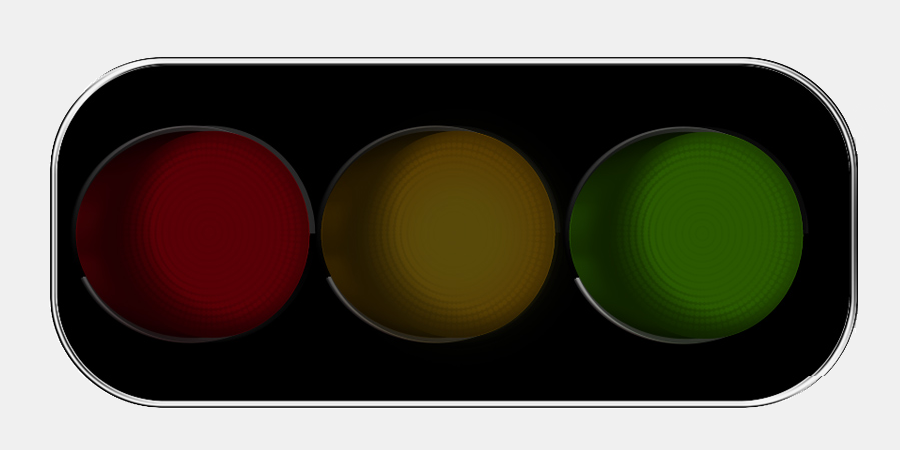
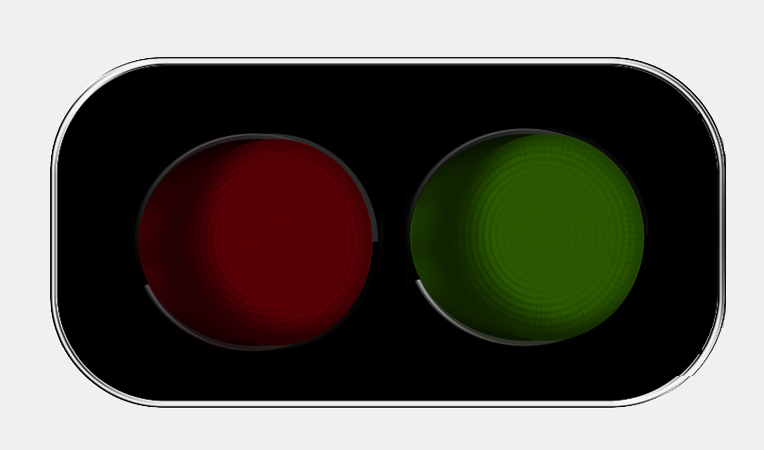
frame edit

diff --git a/gui_main.py b/gui_main.py
@@ -21,10 +21,7 @@ from oob_parser import uartParserSDK
 from gui_threads import *
 from graphUtilities import *
 from gl_classes import GLTextItem
-compileGui = 0
-#only when compiling
-if (compileGui):
-    from fbs_runtime.application_context.PyQt5 import ApplicationContext
+
 
 class Window(QDialog):
     def __init__(self, parent=None, size=[]):
@@ -106,25 +103,18 @@ class Window(QDialog):
         #setup graph pyqtgraph
         self.plot3DQTGraph()
         self.colorGradient()
-        #self.heightPlots()
-        #self.fallDetData()
-        #self.plot2DQTGraph()
 
         #add connect options
         self.setConnectionLayout()
         self.setStatsLayout()
         self.setPlotControlLayout()
         self.setConfigLayout()
-        #self.setControlLayout()
         self.setUpBoundaryBoxControls()
         self.setSensorPositionControls()
         self.setTrafficLightLayout()
 
-        # set the layout
-        #create tab for different graphing options
         self.graphTabs = QTabWidget()
         self.graphTabs.addTab(self.pcplot, '3D Plot')
-        #self.graphTabs.addTab(self.legacyPlot, '2D Plot')
         self.graphTabs.currentChanged.connect(self.whoVisible)
 
         gridlay = QGridLayout()
@@ -133,20 +123,12 @@ class Window(QDialog):
         gridlay.addWidget(self.configBox,2,0,1,1)
         gridlay.addWidget(self.plotControlBox,3,0,1,1)
         gridlay.addWidget(self.boxTab,4,0,1,1)
-        #gridlay.addWidget(self.spBox,5,0,1,1)
         gridlay.addWidget(self.trafficBox,5, 0, 1, 1)
         gridlay.addWidget(self.graphTabs,0,1,6,1)
-        #gridlay.addWidget(self.gw, 0, 2, 6, 1)
-        #gridlay.addWidget(self.demoData, 0,3,1,2)
-        #gridlay.addWidget(self.hPlot,1,3,4,2)
         gridlay.setColumnStretch(0,1)
         gridlay.setColumnStretch(1,3)
         self.setLayout(gridlay)
-
         self.selectCfg()
-#
-# left side pane layout
-#
 
     def setTrafficLightLayout(self):
         self.trafficBox = QGroupBox('')
@@ -154,10 +136,9 @@ class Window(QDialog):
 
         self.pixmapRed=QPixmap("light_red").scaled((int)(self.width/4),(int)(self.height/5))
         self.pixmapGreen=QPixmap("light_green").scaled((int)(self.width/4),(int)(self.height/5))
-        self.pixmapYellow=QPixmap("light_yellow").scaled((int)(self.width/4),(int)(self.height/5))
         self.pixmapCommon=QPixmap("light").scaled((int)(self.width/4),(int)(self.height/5))
-        self.pixmapGroup=[self.pixmapRed,self.pixmapYellow,self.pixmapGreen,self.pixmapCommon]
-        self.lbl.setPixmap(self.pixmapGroup[3])
+        self.pixmapGroup=[self.pixmapRed,self.pixmapGreen,self.pixmapCommon]
+        self.lbl.setPixmap(self.pixmapGroup[2])
 
         self.trafficControlLayout = QGridLayout()
         self.trafficControlLayout.addWidget(self.lbl,0,0)
@@ -175,7 +156,6 @@ class Window(QDialog):
         self.configLabel = QLabel('Config Type:')
         self.configType = QComboBox()
         self.configType.addItems(["(Legacy) 2D People Counting"])
-        #self.configType.addItems(["3D People Counting", "SDK Out of Box Demo", "Long Range People Detection", "Sense and Detect HVAC Control", "(Legacy) 2D People Counting", "(Legacy): Overhead People Counting", "Capon3DAOP", "Replay"])
         self.comLayout = QGridLayout()
         self.comLayout.addWidget(self.uartLabel,0,0)
         self.comLayout.addWidget(self.uartCom,0,1)
@@ -218,9 +198,6 @@ class Window(QDialog):
         self.orientationSelection.addItems(['Side Mount', 'Overhead Mount'])
         self.orientationSelection.currentIndexChanged.connect(self.swapOrientations)
         self.oriLabel = QLabel('Orientation')
-        #self.fallThreshInput = QLineEdit(str(self.fallThresh))
-        #self.fallThreshInput.textEdited.connect(self.updateFallThresh)
-        #self.fallTLabel = QLabel('Fall Detection Threshold')
         self.plotControlLayout = QGridLayout()
         self.plotControlLayout.addWidget(self.plotByIndex, 0, 0,1,1)
         self.plotControlLayout.addWidget(self.plotByHeight, 1, 0,1,1)
@@ -228,12 +205,7 @@ class Window(QDialog):
         self.plotControlLayout.addWidget(self.persistentFramesInput,4,0,1,1)
         self.plotControlLayout.addWidget(self.pFILabel,4,1,1,1)
         self.plotControlLayout.addWidget(self.staticclutter,3,0,1,1)
-        #self.plotControlLayout.addWidget(self.orientationSelection, 5,0,1,1)
-        #self.plotControlLayout.addWidget(self.oriLabel, 5,1,1,1)
-        #self.plotControlLayout.addWidget(self.fallThreshInput,4,0,1,1)
-        #self.plotControlLayout.addWidget(self.fallTLabel,4,1,1,1)
         self.plotControlBox.setLayout(self.plotControlLayout)
-        #initialize button values
         self.plotByHeight.setChecked(True)
         self.plotByIndex.setChecked(False)
         self.plotTracks.setChecked(True)
@@ -241,9 +213,7 @@ class Window(QDialog):
 
     def setConfigLayout(self):
         self.configBox = QGroupBox('Configuration')
-        #self.selectConfig = QPushButton('Select Configuration')
         self.sendConfig = QPushButton('Send Configuration')
-        #self.selectConfig.clicked.connect(self.selectCfg)
         self.sendConfig.clicked.connect(self.sendCfg)       
         self.configTable = QTableWidget(5,2)
         #set parameter names
@@ -254,10 +224,8 @@ class Window(QDialog):
         self.configTable.setItem(3,0,QTableWidgetItem('Max Velocity'))
         self.configTable.setItem(4,0,QTableWidgetItem('Velcoity Resolution'))
         self.configLayout = QVBoxLayout()
-        #self.configLayout.addWidget(self.selectConfig)
         self.configLayout.addWidget(self.sendConfig)
         self.configLayout.addWidget(self.configTable)       
-        #self.configLayout.addStretch(1)
         self.configBox.setLayout(self.configLayout)
 
     def setControlLayout(self):
@@ -365,7 +333,6 @@ class Window(QDialog):
         self.gz.translate(dx=0,dy=0,dz=-self.profile['sensorHeight'])
 
     def setUpBoundaryBoxControls(self):
-        #set up all boundary box controls
         self.boundaryBoxes = []
         self.boxTab = QTabWidget()
         for i in range(1):
@@ -373,12 +340,9 @@ class Window(QDialog):
             self.boundaryBoxes.append(self.setBoxControlLayout(name))
             toAdd = self.boundaryBoxes[i]
             toAdd['boxNum'] = i
-            #if (i == 0):
-            #    toAdd['checkEnable'].setChecked(True)
             self.boxTab.addTab(toAdd['boxCon'], name)
-    #for live tuning when available
+
     def changeBoundaryBox(self):
-        #send box values
         numBoxes = 0
         for box in self.boundaryBoxes:
             if(box['checkEnable'].isChecked()):
@@ -405,39 +369,6 @@ class Window(QDialog):
             print(boundaryString)
             self.cThread = sendCommandThread(self.parser,boundaryString)
             self.cThread.start(priority=QThread.HighestPriority-2)
-    #for tuning before demo start
-    #def changeBoundaryBox(self):
-    #    #send box values
-    #    numBoxes = 0
-    #    for box in self.boundaryBoxes:
-    #        if(box['checkEnable'].isChecked()):
-    #            numBoxes += 1
-    #    boundaryString = "boundaryBox "
-    #    staticString = "staticBoundaryBox " 
-    #    flip = 1;
-    #    for box in self.boundaryBoxes:
-    #        if(box['checkEnable'].isChecked()):
-    #            for text in box['boundList']:
-    #                val = text.text()
-    #                val = val.replace(" ","")
-    #                try:
-    #                    num=float(val)
-    #                except:
-    #                    print('nothing here')
-    #                    return
-    #                boundaryString += text.text() + " "
-    #                num += flip*0.5
-    #                flip = flip*-1
-    #                staticString += str(num) + " "
-    #            self.drawBoundaryBox3d(box['boxNum'])
-    #        else:
-    #            print("Setting box ", box['boxNum'], " invisisble")
-    #            self.boundaryBoxViz[box['boxNum']].setVisible(False)
-    #            self.bottomSquare[box['boxNum']].setVisible(False)
-    #    boundaryString += "\n"
-    #    staticString += "\n"
-    #    self.cfg[self.boundaryLine] = boundaryString
-    #    self.cfg[self.staticLine] = staticString
 
     def setBoundaryTextVals(self, profile):
         #update box text values based on config
@@ -459,12 +390,10 @@ class Window(QDialog):
         yC = yL/2
         self.gz.resetTransform()
         if (self.orientationSelection.currentText() == 'Overhead Mount'):
-            #self.gz.setSize(x=mRange*2, y=mRange*2)
             self.gz.setSize(x=8, y=8)
             self.gz.translate(dx=xC, dy=0, dz=-2)
         else:
             self.gz.setSize(x=mRange*2, y=mRange)
-            #self.gz.translate(0,0,0)
             self.gz.translate(dx=xC, dy=yC, dz=-2)
 
     def drawBoundaryBox3d(self, index):
@@ -563,14 +492,9 @@ class Window(QDialog):
         self.pcplot.addItem(self.evmBox)
         #add text items for tracks
         self.coordStr = []
-        #coordinateString = GLTextItem()
-        #coordinateString.setGLViewWidget(self.pcplot)
-        #self.pcplot.addItem(coordinateString)
-        #coordinateString.setPosition(1,1,1)
-        #add mesh objects for ellipsoids
         self.ellipsoids = []
-        #self.dataImages = []
         edgeColor = pg.glColor('k')
+
         for m in range(0,20):
             #add track object
             mesh = gl.GLLinePlotItem()
@@ -613,8 +537,6 @@ class Window(QDialog):
                 fallDetEn = 1
             elif (self.numTargets > 1):
                 fdestr = 'Fall Detected Disabled - Too Many People'
-            #self.numDetPeople.setText(peopleStr)
-            #self.fallDetEnabled.setText(fdestr)
         if (len(targets) < 13):
             targets = []
             classifierOutput = []
@@ -710,17 +632,23 @@ class Window(QDialog):
         fnstr = 'Frame: '+str(self.frameNum)
         self.frameNumDisplay.setText(fnstr)
         self.plotTimeDisplay.setText(pltstr)
+        before = 0 
 
-        if(self.numTargets>0):
-            self.trafficVal=self.parser.dangerNum
-            if(self.trafficVal==0):
-                self.lbl.setPixmap(self.pixmapGroup[0])
-            elif(self.trafficVal==1):
-                self.lbl.setPixmap(self.pixmapGroup[1])
-            else:
+        if(self.parser.fail == 1 ) :
+            self.lbl.setPixmap(self.pixmapGroup[before])
+        else: 
+            if(self.numTargets>0):
+                self.trafficVal=self.parser.dangerNum
+                if(self.trafficVal==0): #red
+                    self.lbl.setPixmap(self.pixmapGroup[0])
+                    before = 0
+                elif(self.trafficVal==1):   #green
+                    self.lbl.setPixmap(self.pixmapGroup[1])
+                    before = 1
+            else: 
                 self.lbl.setPixmap(self.pixmapGroup[2])
-        else:
-            self.lbl.setPixmap(self.pixmapGroup[3])
+
+
 
     def resetFallText(self):
         self.fallAlert.setText('Standing')
@@ -751,11 +679,9 @@ class Window(QDialog):
         try:
             uart = "COM"+ str(10)       #deb_gp
             data = "COM"+ str(11)       #deb_gp
-#TODO: find the serial ports automatically.
             self.parser.connectComPorts(uart, data)
             self.connectStatus.setText('Connected')     #deb_gp
             self.connectButton.setText('Disconnect')    #deb_gp
-#TODO: create the disconnect button action
         except Exception as e:
             print (e)
             self.connectStatus.setText('Unable to Connect')
@@ -763,9 +689,7 @@ class Window(QDialog):
             self.connectStatus.setText('Replay')
         if (self.configType.currentText() == "Long Range People Detection"):
             self.frameTime = 400
-#
-# Select and parse the configuration file
-# TODO select the cfgfile automatically based on the profile.
+
     def selectCfg(self):
         try:
             fname="C:\mmw_tm_demo_longRange.cfg"
@@ -782,15 +706,9 @@ class Window(QDialog):
         for line in self.cfg:
             args = line.split()
             if (len(args) > 0):
-                if (args[0] == 'cfarCfg'):
-                    zy = 4
-                    #self.cfarConfig = {args[10], args[11], '1'}
-                elif (args[0] == 'AllocationParam'):
-                    zy=3
-                    #self.allocConfig = tuple(args[1:6])
-                elif (args[0] == 'GatingParam'):
-                    zy=2
-                    #self.gatingConfig = tuple(args[1:4])
+                if (args[0] == 'cfarCfg'): zy = 4
+                elif (args[0] == 'AllocationParam'): zy=3
+                elif (args[0] == 'GatingParam'): zy=2
                 elif (args[0] == 'SceneryParam' or args[0] == 'boundaryBox'):
                     self.boundaryLine = counter
                     self.profile['leftX'] = float(args[1])
@@ -855,10 +773,6 @@ class Window(QDialog):
             print(e)
             print ('No cfg file selected!')
 
-    # Needed ?? deb_gp
-    # def setParser(self, uParser):
-    #     self.parser = uParser
-
     def parseData(self):
         self.uart_thread.start(priority=QThread.HighestPriority)
 
@@ -870,19 +784,9 @@ class Window(QDialog):
         print('3d: ', self.threeD)
 
 if __name__ == '__main__':
-    if (compileGui):
-        appctxt = ApplicationContext()
-        app = QApplication(sys.argv)
-        screen = app.primaryScreen()
-        size = screen.size()
-        main = Window(size=size)
-        main.show()
-        exit_code = appctxt.app.exec_()
-        sys.exit(exit_code)
-    else:
-        app = QApplication(sys.argv)
-        screen = app.primaryScreen()
-        size = screen.size()
-        main = Window(size=size)
-        main.show()
-        sys.exit(app.exec_())
+    app = QApplication(sys.argv)
+    screen = app.primaryScreen()
+    size = screen.size()
+    main = Window(size=size)
+    main.show()
+    sys.exit(app.exec_())

diff --git a/oob_parser.py b/oob_parser.py
@@ -246,14 +246,12 @@ class uartParserSDK():
 
 
     def ettctoTrafficNum(self, ettc):
-        # 0: CZ(RED) 1: DZ(YELLOW) 2:NZ(GREEN)
+        # 0: CZ(RED) 1:NZ(GREEN)
         #print('ECCT:')
-        if(ettc<=3.0):
+        if(ettc<=4.5):
              self.dangerNum=0
-        elif(ettc>3.0 and ettc<=4.0):
-             self.dangerNum=1
         else:
-            self.dangerNum=2
+            self.dangerNum=1
         
         #print(self.dangerNum)            
 
